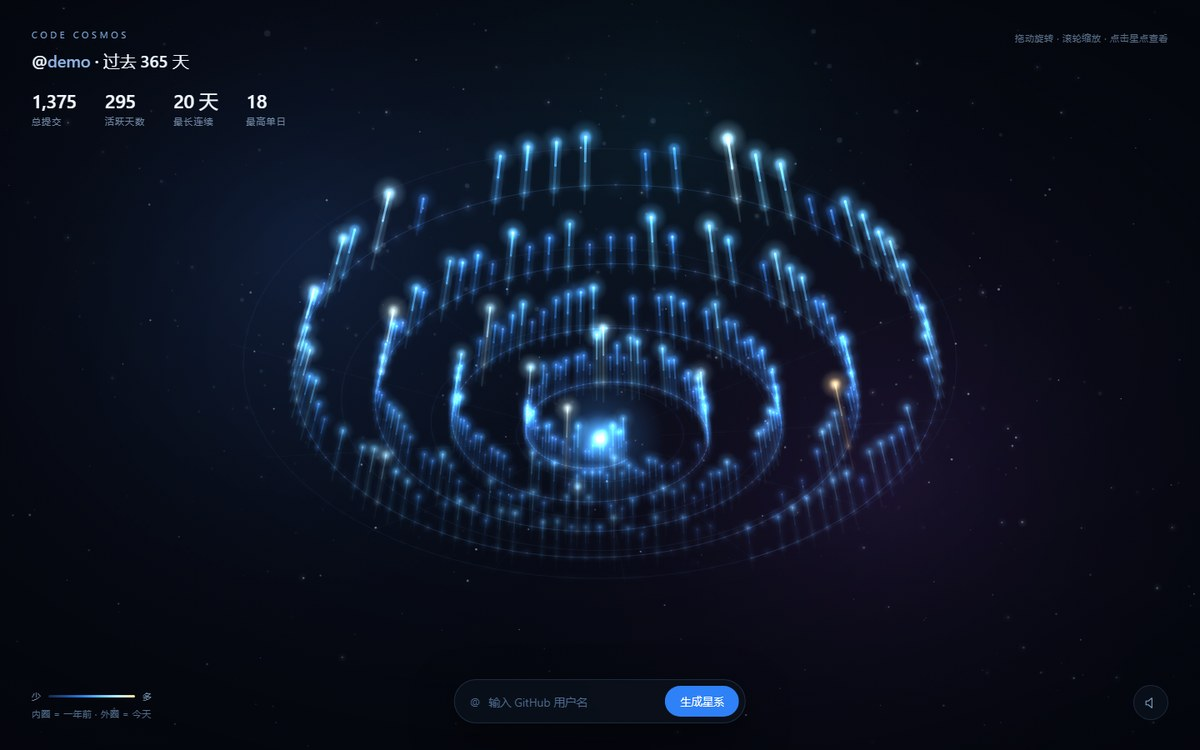
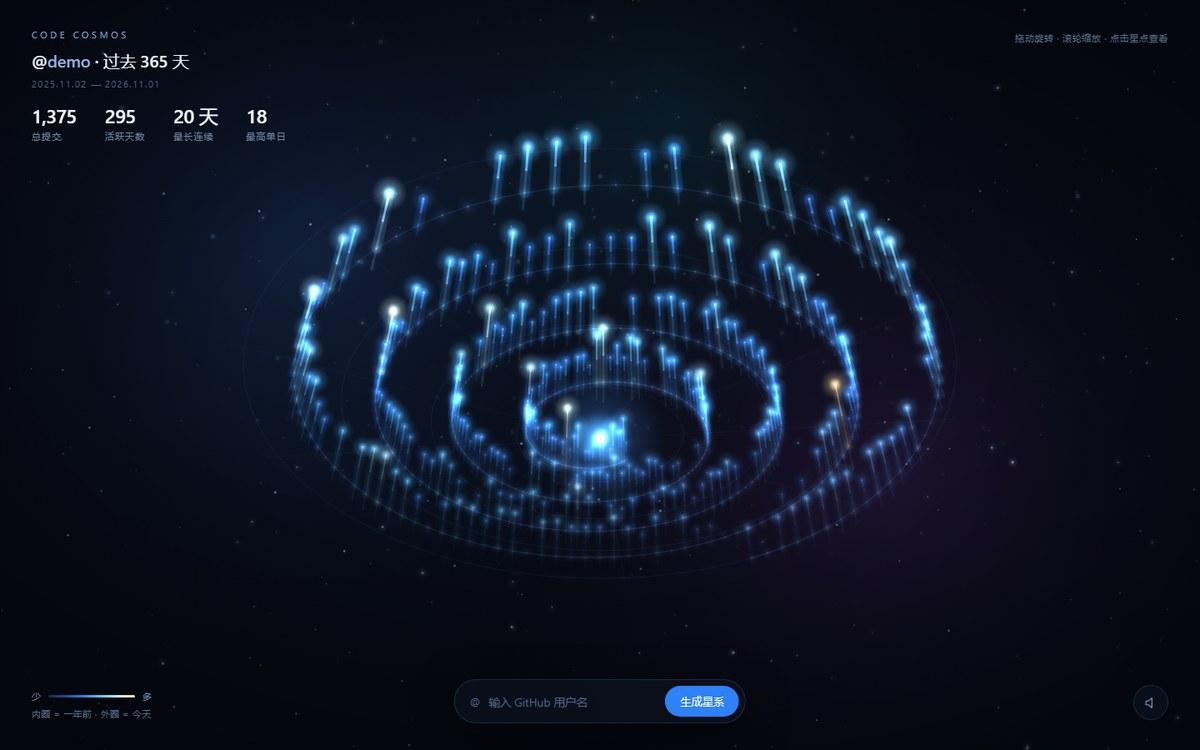
feat: v1.3 时间范围、回正视角按钮、拖拽灵敏度降到八成
- 标题下方加一行小字标出 365 天的起止日期
- 视角转偏后右下角浮出「回正视角」，平滑回到默认机位（走最短路径，不绕圈）
- 左键拖拽灵敏度 x0.8：0.0055 -> 0.0044，俯仰 0.0042 -> 0.00336

diff --git a/index.html b/index.html
@@ -27,7 +27,9 @@
   .brand{font-size:11px;letter-spacing:.34em;color:#7ea6d9;text-transform:uppercase}
   .who{margin:10px 0 0;font-size:20px;font-weight:500;letter-spacing:-.01em;color:#eaf4ff}
   .who em{font-style:normal;color:#8fb6e8}
-  .stats{display:flex;gap:34px;margin-top:22px}
+  .range{margin-top:8px;font-size:10.5px;letter-spacing:.16em;color:#4e6a8c;
+    font-variant-numeric:tabular-nums}
+  .stats{display:flex;gap:34px;margin-top:18px}
   .stat b{display:block;font-size:23px;font-weight:500;letter-spacing:-.02em;
     font-variant-numeric:tabular-nums;color:#f2f8ff;line-height:1.1}
   .stat span{display:block;font-size:11px;color:var(--muted);margin-top:5px;letter-spacing:.1em}
@@ -54,6 +56,18 @@
   .sound.on .w2{opacity:.55}
   .sound:not(.on){animation:breathe 4s ease-in-out infinite}
   @keyframes breathe{0%,100%{box-shadow:0 0 0 rgba(80,170,255,0)}50%{box-shadow:0 0 18px rgba(80,170,255,.18)}}
+
+  .reset{position:fixed;right:38px;bottom:90px;z-index:3;height:32px;padding:0 14px 0 11px;
+    border-radius:999px;display:flex;align-items:center;gap:6px;cursor:pointer;
+    background:rgba(14,22,36,.80);border:1px solid rgba(120,170,230,.30);color:#a8c6e6;
+    font-size:11px;letter-spacing:.08em;font-family:inherit;
+    backdrop-filter:blur(16px);-webkit-backdrop-filter:blur(16px);
+    box-shadow:0 12px 30px rgba(0,0,0,.45);
+    opacity:0;transform:translateY(6px);pointer-events:none;
+    transition:opacity .35s, transform .35s, color .2s, border-color .2s}
+  .reset.on{opacity:1;transform:none;pointer-events:auto}
+  .reset:hover{color:#dcecff;border-color:rgba(120,170,230,.5)}
+  .reset svg{display:block;opacity:.9}
 
   .dock{position:fixed;left:50%;bottom:32px;transform:translateX(-50%);z-index:3;
     display:flex;align-items:center;gap:6px;padding:7px 7px 7px 18px;border-radius:999px;
@@ -93,6 +107,8 @@
     .stat span{font-size:10px}
     .hint,.legend{display:none}
     .sound{top:20px;right:20px;bottom:auto;width:36px;height:36px}
+    .reset{top:66px;right:20px;bottom:auto;height:30px;font-size:10.5px}
+    .range{font-size:9.5px;letter-spacing:.12em}
     .dock{width:calc(100% - 28px);bottom:20px}
     .dock input{width:auto;flex:1;min-width:0}
     .status{bottom:76px}
@@ -105,6 +121,7 @@
 <header class="hud">
   <div class="brand">Code Cosmos</div>
   <h1 class="who" id="who">@<em>demo</em> · 过去 365 天</h1>
+  <div class="range" id="range"></div>
   <div class="stats">
     <div class="stat"><b id="s-total">0</b><span>总提交</span></div>
     <div class="stat"><b id="s-active">0</b><span>活跃天数</span></div>
@@ -128,6 +145,14 @@
 
 <div class="status" id="status"></div>
 <div class="card" id="card"></div>
+
+<button class="reset" id="reset" type="button" aria-label="回正视角">
+  <svg width="13" height="13" viewBox="0 0 24 24" fill="none" stroke="currentColor" stroke-width="1.7" stroke-linecap="round" stroke-linejoin="round">
+    <path d="M3.2 12a8.8 8.8 0 1 0 2.9-6.5"/>
+    <path d="M3 4.2v4.6h4.6"/>
+  </svg>
+  <span>回正视角</span>
+</button>
 
 <button class="sound" id="sound" type="button" title="宇宙背景音" aria-label="切换背景音乐">
   <svg width="19" height="19" viewBox="0 0 24 24" fill="none" stroke="currentColor" stroke-width="1.4" stroke-linecap="round" stroke-linejoin="round">
@@ -189,7 +214,10 @@
   var fx = null, fxc = null;
   var SPR = [];
 
-  var cam = { yaw: 0.95, pitch: 0.60, dist: 1230, tyaw: 0.95, tpitch: 0.60, tdist: 1230 };
+  var DEF = { yaw: 0.95, pitch: 0.60, dist: 1230 };   /* 默认视角，供“回正”使用 */
+  var cam = { yaw: DEF.yaw, pitch: DEF.pitch, dist: DEF.dist,
+              tyaw: DEF.yaw, tpitch: DEF.pitch, tdist: DEF.dist };
+  var manual = false, resetShown = false;
   var ptrX = 0, ptrY = 0, parX = 0, parY = 0;   /* 鼠标视差：目标值 / 平滑值 */
 
   function resize() {
@@ -742,11 +770,19 @@
     }
 
     ctx.globalCompositeOperation = 'source-over';
+
+    /* 视角被转偏之后，浮出“回正”按钮 */
+    var off = manual && (Math.abs(cam.tyaw - DEF.yaw) > 0.22 ||
+              Math.abs(cam.tpitch - DEF.pitch) > 0.10 ||
+              Math.abs(cam.tdist - DEF.dist) > 170);
+    if (off !== resetShown) { resetShown = off; resetBtn.classList.toggle('on', off); }
+
     requestAnimationFrame(frame);
   }
 
   /* ---------- 交互 ---------- */
   var lastX = 0, lastY = 0, moved = 0;
+  var resetBtn = document.getElementById('reset');
 
   function pick(mx, my) {
     var best = null, bestD = 16 * 16;
@@ -788,8 +824,9 @@
     if (dragging) {
       var dx = e.clientX - lastX, dy = e.clientY - lastY;
       moved += Math.abs(dx) + Math.abs(dy);
-      cam.tyaw += dx * 0.0055;
-      cam.tpitch = clamp(cam.tpitch + dy * 0.0042, 0.06, 1.32);
+      cam.tyaw += dx * 0.0044;                                  /* 灵敏度 = 原值的八成 */
+      cam.tpitch = clamp(cam.tpitch + dy * 0.00336, 0.06, 1.32);
+      manual = true;
       lastX = e.clientX; lastY = e.clientY;
       lastInteract = performance.now();
     } else {
@@ -822,8 +859,20 @@
   cvs.addEventListener('wheel', function (e) {
     e.preventDefault();
     cam.tdist = clamp(cam.tdist * (1 + e.deltaY * 0.0011), 700, 3000);
+    manual = true;
     lastInteract = performance.now();
   }, { passive: false });
+
+  /* 回正：平滑回到默认视角 */
+  resetBtn.addEventListener('click', function () {
+    var TWO = Math.PI * 2;
+    cam.yaw = cam.yaw - Math.round((cam.yaw - DEF.yaw) / TWO) * TWO;  /* 走近路，不绕圈 */
+    cam.tyaw = DEF.yaw;
+    cam.tpitch = DEF.pitch;
+    cam.tdist = DEF.dist;
+    manual = false;
+    lastInteract = performance.now();
+  });
 
   /* 指针位置 → 微视差（全局监听，鼠标划过面板也有效） */
   window.addEventListener('pointermove', function (e) {
@@ -848,6 +897,8 @@
     layout(days);
     updateStats(days);
     document.getElementById('who').innerHTML = '@<em>' + name + '</em> · 过去 365 天';
+    document.getElementById('range').textContent =
+      days[0].date.replace(/-/g, '.') + '  —  ' + days[days.length - 1].date.replace(/-/g, '.');
     t0 = performance.now() - (INSTANT ? 6000 : 0);
     activeStar = null;
     hoverStar = null;
